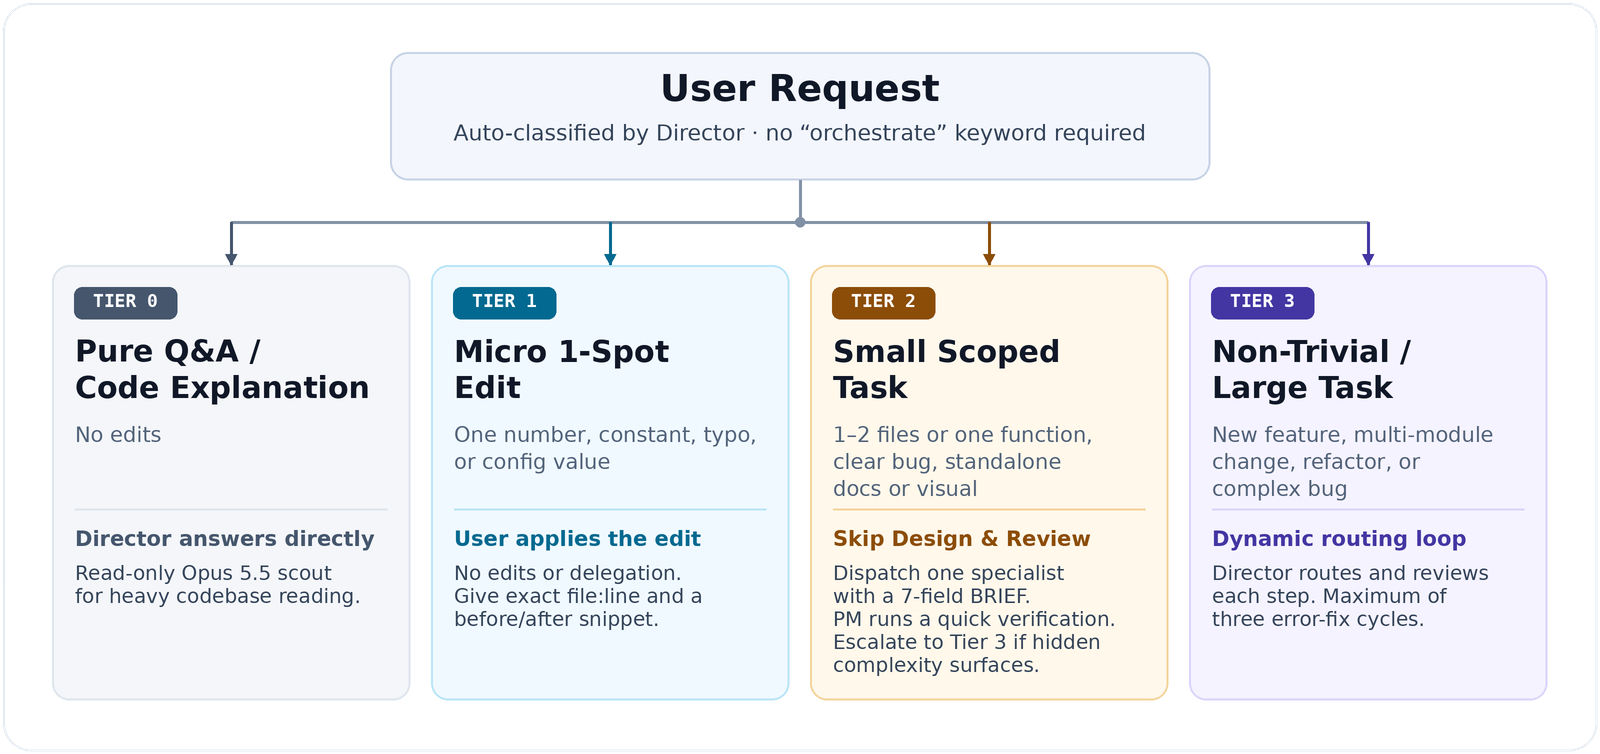
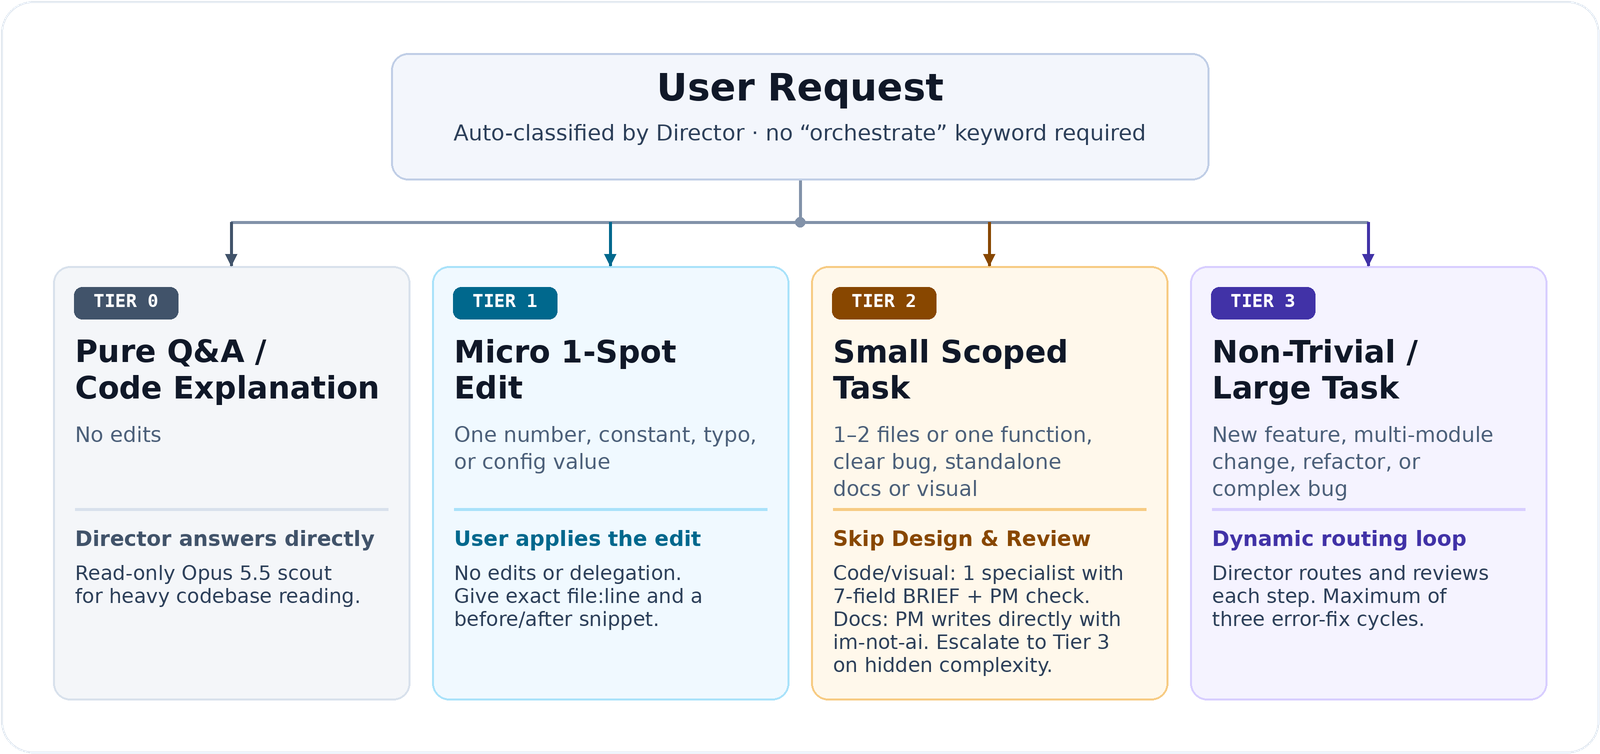
feat: consolidate docs into Director PM with im-not-ai skill and add install prerequisites

diff --git a/skills/my-orchestration/SKILL.md b/skills/my-orchestration/SKILL.md
@@ -5,21 +5,21 @@ description: >-
   engineering task (even without mentioning orchestration) and explicit orchestration
   requests. Enforces 4-tier auto-routing, dynamic Director-driven control, 7-field BRIEF
   handoffs (command-based DONE WHEN), failing-test-first fixes, sensitive-file locks,
-  max 3 fix cycles, optional worktree isolation, and the Dream Team roster (Gemini 4
-  Neon high PM, Claude Opus 5.5 high design/code, Gemini 4 Hydrogen medium docs,
-  image-generator/GPT 6.2 Sol medium visuals, GPT 6.2 Astra xhigh adversarial review).
+  max 3 fix cycles, optional worktree isolation, direct PM docs with the im-not-ai
+  (humanize-korean) skill, and the Dream Team roster (Gemini 4 Neon high PM & docs,
+  Claude Opus 5.5 high design/code, image-generator/GPT 6.2 Sol medium visuals,
+  GPT 6.2 Astra xhigh adversarial review).
 ---
 
 # My T3 Code Orchestration Preset (Dynamic Director-Driven)
 
-Hub-and-spoke control (Option A): main thread (`Gemini 4 Neon`, `thought_level: high`) acts as active **Director/PM** controlling all `delegate_task` calls. Children NEVER spawn subagents. Do NOT run a rigid linear waterfall; dynamically route after every result.
+Hub-and-spoke control (Option A): main thread (`Gemini 4 Neon`, `thought_level: high`) acts as active **Director/PM & Docs Writer** controlling all `delegate_task` calls and writing documentation directly. Children NEVER spawn subagents. Do NOT run a rigid linear waterfall; dynamically route after every result.
 
 ## 1. Roster (Exact IDs & Options)
 
-- **Director/PM** (main, direct): `Gemini 4 Neon` (`{"thought_level":"high"}`) — Korean Q&A, routing, 7-field briefs, verification, fix-cycle cap, reporting.
+- **Director/PM & Docs** (main, direct): `Gemini 4 Neon` (`{"thought_level":"high"}`) — Korean Q&A, routing, 7-field briefs, verification, fix-cycle cap, reporting, and direct documentation/copywriting (`docs/`, `README.md`, `CHANGELOG.md`, UI/i18n) polished with the `im-not-ai` (`humanize-korean`) skill.
 - **Architect/Scout** (read-only): `claudeAgent` / `claude-opus-5-5` / `{"effort":"high"}` — codebase scouting, blueprints, design pivots.
 - **Builder/Code Worker**: `claudeAgent` / `claude-opus-5-5` / `{"effort":"high"}` — Tier 2 edits, Tier 3 parallel/worktree slices, failing-test-first fixes.
-- **Docs/Copywriter**: `antigravity` / `gemini-4-hydrogen` / `{"thought_level":"medium"}` — Korean docs (`docs/`, `README.md`, `CHANGELOG.md`, designated UI/i18n ONLY).
 - **Visual/Asset**: native `invoke_subagent` (`image-generator`) for raster art/icons/banners; `codex` / `gpt-6.2-sol` / `{"reasoningEffort":"medium"}` for code-generated charts/diagrams/SVG/GIF scripts.
 - **Playtester/Senior Reviewer** (read-only): `codex` / `gpt-6.2-astra` / `{"reasoningEffort":"xhigh"}` — adversarial cross-provider playtesting, bug & test-quality review.
 
@@ -27,7 +27,10 @@ Hub-and-spoke control (Option A): main thread (`Gemini 4 Neon`, `thought_level: 
 
 - **Tier 0 (Pure Q&A / explanation, no edits)**: Answer directly. Offload heavy codebase reading to a read-only `claude-opus-5-5` scout.
 - **Tier 1 (Micro 1-spot edit: single number/constant/typo/config value)**: Do NOT edit or delegate (unless user explicitly asks you to apply it). Give exact clickable file:line + before/after snippet for user self-edit.
-- **Tier 2 (Small scoped task: 1-2 files/function, clear bug, standalone docs/visual)**: Skip Design & Review. Dispatch 1 matching worker with a 7-field `BRIEF` + run quick PM verification. Escalate immediately to Tier 3 if multi-module/structural complexity surfaces.
+- **Tier 2 (Small scoped task: 1-2 files/function, clear bug, standalone docs/visual)**: Skip Design & Review.
+  - Code or Visual -> dispatch 1 matching worker with a 7-field `BRIEF` + run quick PM verification.
+  - Standalone Docs/Copy -> PM (`Gemini 4 Neon`) writes directly and applies the `im-not-ai` (`humanize-korean`) skill for Korean prose.
+  - Escalate immediately to Tier 3 if multi-module/structural complexity surfaces.
 - **Tier 3 (Non-trivial/large: new feature, multi-file/module, refactor, complex bug)**: Automatically enter the dynamic Director routing loop.
 
 ## 3. Dynamic Routing Rules (Evaluate After Every Step)
@@ -37,7 +40,7 @@ Hub-and-spoke control (Option A): main thread (`Gemini 4 Neon`, `thought_level: 
 3. **Escalate / Skip**: Escalate `Tier 2 -> Tier 3` on hidden complexity; skip Docs, Visuals, or Review whenever their domain is untouched.
 4. **Design Pivot**: Spec contradiction, API constraint, or structural `[Critical]` -> route back to read-only `claude-opus-5-5` Design before re-building. Never blind-patch.
 5. **Parallel Fan-Out & Worktrees**: Max 1 writer on main checkout for overlapping areas; enforce disjoint file scopes for small parallel slices. For large independent parallel features (e.g., API + UI), use `isolation: "worktree"` and integrate in dependency order. Keep <= 2-3 concurrent builders to prevent MCP/RAM bloat.
-6. **Post-Code Sync**: After code passes verification/review, dispatch `gemini-4-hydrogen` and/or visual workers if public APIs, CLI flags, configs, or UI flows changed.
+6. **Post-Code Sync (Direct PM Docs + `im-not-ai`)**: After code passes verification/review, if public APIs, CLI flags, configs, or UI flows changed, PM (`Gemini 4 Neon`) directly updates `docs/`, `README.md`, `CHANGELOG.md`, or UI copy — applying the `im-not-ai` (`humanize-korean`) skill to Korean deliverables (short natural sentences, no AI-isms/jargon/hype; changelog <= 3 lines: what changed + user impact) — and dispatches visual workers only if visual assets changed.
 7. **Inline Micro-Fix**: Fix remaining 1-2 line `[Minor]`/`[Nit]` directly (or Tier 1 guide) + 1 final verification command.
 
 ## 4. Mandatory 7-Field Handoff `BRIEF`
@@ -48,7 +51,6 @@ Children see ZERO parent history. Send every `delegate_task` in concise English 
 - **Architect/Scout**: Return file/function boundaries, risks, and executable verification commands.
 - **Builder**: Execute `DONE WHEN` command(s); report changed files, command outputs, and uncertainties.
 - **Playtester/Reviewer (`gpt-6.2-astra`)**: Read-only is a promise, not a lock — explicitly state `DO NOT edit/fix; report only`. Use adversarial red-team posture auditing **code AND test quality** (tests must genuinely catch regressions). Checklist: empty/null, huge/boundary, concurrency/race (two tabs/requests), slow/failing network/I/O, Unicode/Korean/non-ASCII, expired auth/missing perms, silent regressions, blueprint drift. Return numbered `[Critical|Major|Minor|Nit]` with `file:line`, `repro`, `expected`, `actual`, and fix criteria.
-- **Docs (`gemini-4-hydrogen`)**: Hard fence (`docs/`, `README.md`, `CHANGELOG.md`, designated UI/i18n ONLY). Write concise natural Korean (short sentences, no jargon/hype; changelog <= 3 lines: what changed + user impact); return English summary.
 
 ## 5. Safety Guardrails & Circuit Breakers
 
@@ -64,7 +66,7 @@ Children see ZERO parent history. Send every `delegate_task` in concise English 
 
 ## 6. Operations, Language & Overrides
 
-- **Language**: Internal prompts/blueprints/reports/reviews = strictly English; user replies & user-facing docs = natural Korean.
+- **Language & Docs Polish**: Internal prompts/blueprints/reports/reviews = strictly English; user replies & Korean user-facing docs = natural Korean. For Korean documentation/copy, load and follow the installed `im-not-ai` skill (`humanize-korean`; or `humanize-scan` for quick checks) before finalizing.
 - **Mechanics**: Call `orchestrator_capabilities` once per thread before first `delegate_task`; never silently swap unavailable models. Keep main context lean (offload heavy reads to read-only `claude-opus-5-5`). Never poll delegates (`task_status`, `sleep`, loops — follow `next`).
 - **Final Report**: Concise Korean + clickable file links + verbatim delegated thread links; suggest `/compact` or fresh thread after major milestones if long.
 - **Overrides**: Honor explicit per-thread user overrides (tier, path, cap, model, options) without editing this file unless asked.

diff --git a/README.md b/README.md
@@ -2,7 +2,7 @@
 
 A compact, production-tested **dynamic multi-model orchestration skill** for **T3 Code** and **Antigravity**.
 
-Instead of a rigid `Plan -> Build -> Review` waterfall, a lightweight central **Director/PM** classifies every incoming request across 4 tiers, dynamically routes work to specialized frontier models across providers, enforces command-verified handoffs and cross-family adversarial reviews, and halts cleanly at a hard **3-cycle circuit breaker**.
+Instead of a rigid `Plan -> Build -> Review` waterfall, a lightweight central **Director/PM** classifies every incoming request across 4 tiers, dynamically routes engineering & visual work to specialized frontier models across providers, handles user-facing documentation directly with the `im-not-ai` (`humanize-korean`) skill, enforces command-verified handoffs and cross-family adversarial reviews, and halts cleanly at a hard **3-cycle circuit breaker**.
 
 ---
 
@@ -22,10 +22,9 @@ Instead of a rigid `Plan -> Build -> Review` waterfall, a lightweight central **
 
 | Role | Provider | Model | Options | Scope |
 | :--- | :--- | :--- | :--- | :--- |
-| **Director / PM** | Main thread (`antigravity`) | `Gemini 4 Neon` | `{"thought_level": "high"}` | Routing, 7-field briefs, verification, fix-cycle cap, user reporting |
+| **Director / PM & Docs** | Main thread (`antigravity`) | `Gemini 4 Neon` | `{"thought_level": "high"}` | Routing, 7-field briefs, verification, fix-cycle cap, reporting, and direct docs/copywriting (`docs/`, `README.md`, `CHANGELOG.md`, UI/i18n) polished with `im-not-ai` (`humanize-korean`) |
 | **Architect / Scout** | `claudeAgent` | `claude-opus-5-5` | `{"effort": "high"}` | Read-only scouting, architecture blueprints, mid-flight design pivots |
 | **Code Worker / Builder** | `claudeAgent` | `claude-opus-5-5` | `{"effort": "high"}` | Tier 2 edits, Tier 3 parallel/worktree slices, failing-test-first fixes |
-| **Docs / Copywriter** | `antigravity` | `gemini-4-hydrogen` | `{"thought_level": "medium"}` | `docs/`, `README.md`, `CHANGELOG.md`, UI copy/i18n only |
 | **Visual / Asset Designer** | Native / `codex` | `image-generator` / `gpt-6.2-sol` | `--` / `{"reasoningEffort": "medium"}` | Raster art/icons/banners (`image-generator`); charts/SVG/GIF scripts (`gpt-6.2-sol`) |
 | **Playtester / Senior Reviewer** | `codex` | `gpt-6.2-astra` | `{"reasoningEffort": "xhigh"}` | Read-only adversarial cross-provider playtesting & test-quality audit |
 
@@ -36,6 +35,7 @@ Instead of a rigid `Plan -> Build -> Review` waterfall, a lightweight central **
 ## Key Engineering Disciplines
 
 - **Mandatory 7-Field Handoff `BRIEF`**: Every child delegate starts with zero parent history. All briefs specify `BRIEF FOR`, `ROLE`, `GOAL`, `CONTEXT`, `DONE WHEN` (an executable exit-0 command or objective checklist — never an opinion), `DO NOT`, and `RETURN`. See [`templates/BRIEF.md`](./templates/BRIEF.md).
+- **Direct PM Docs + [`im-not-ai`](https://github.com/epoko77-ai/im-not-ai) Polish**: Instead of spawning a separate copywriter model, the Director/PM (`Gemini 4 Neon`) writes user-facing documentation (`docs/`, `README.md`, `CHANGELOG.md`, UI/i18n) directly and runs Korean deliverables through the required [`im-not-ai`](https://github.com/epoko77-ai/im-not-ai) (`humanize-korean` / `humanize-scan`) skill to eliminate AI-isms and translationese.
 - **Failing Test First**: When fixing testable bugs or `[Critical]`/`[Major]` review findings, builders write a failing regression test reproducing the issue *before* writing the fix.
 - **Adversarial Playtester Checklist**: `GPT 6.2 Astra` audits both **code and test quality** against empty/null inputs, huge boundaries, concurrency/race conditions, slow/failing I/O, Unicode/non-ASCII strings, auth/permission edge cases, and blueprint drift.
 - **Hard Circuit Breakers**:
@@ -43,7 +43,43 @@ Instead of a rigid `Plan -> Build -> Review` waterfall, a lightweight central **
   - **Sensitive-File Lock**: `.env*`, DB `migrations`, and CI/deploy configs cannot be edited without explicit human approval.
   - **Autonomous Handoff Cap**: Max 4 unattended agent-to-agent handoffs without checking in with the user.
 - **Worktree & Resource Hygiene**: At most 1 writer on the main checkout for overlapping paths; use `isolation: "worktree"` for large independent parallel features and keep concurrent builders lean (<= 2–3) to avoid MCP/RAM bloat.
-- **Language Separation**: All internal briefs, blueprints, reports, and reviews stay strictly in concise English for token efficiency and technical precision; user-facing replies and docs default to natural Korean (easily customizable in `SKILL.md`).
+- **Language Separation**: All internal briefs, blueprints, reports, and reviews stay strictly in concise English for token efficiency and technical precision; user-facing replies and Korean docs default to natural, humanized Korean (easily customizable in `SKILL.md`).
+
+---
+
+## Prerequisites
+
+### Required Companion Skill: `im-not-ai` (`humanize-korean`)
+
+This preset relies on **[epoko77-ai/im-not-ai](https://github.com/epoko77-ai/im-not-ai)** so the Director/PM (`Gemini 4 Neon`) can polish Korean documentation (`docs/`, `README.md`, `CHANGELOG.md`, UI copy) and eliminate AI-isms and translationese. **Install `im-not-ai` before using Korean docs workflows:**
+
+#### 1. Clone & Install for Antigravity / T3 Code (Recommended)
+
+```bash
+git clone https://github.com/epoko77-ai/im-not-ai.git ~/.local/share/im-not-ai
+cd ~/.local/share/im-not-ai
+./install.sh   # Auto-detects Claude Code, Codex CLI, and Gemini CLI
+
+# Link skills into Antigravity's global skills directory
+mkdir -p ~/.gemini/config/skills
+for s in humanize humanize-korean humanize-redo humanize-scan; do
+  ln -sfn ~/.local/share/im-not-ai/skills/"$s" ~/.gemini/config/skills/"$s"
+done
+```
+
+#### 2. Alternative Install Methods
+
+- **Gemini CLI Extension (no clone)**:
+  ```bash
+  gemini extensions install https://github.com/epoko77-ai/im-not-ai.git
+  ```
+- **Claude Code Plugin Marketplace (no clone)**:
+  ```text
+  /plugin marketplace add epoko77-ai/im-not-ai
+  /plugin install humanize-korean@im-not-ai
+  ```
+
+For full details, updates, and uninstall options, see the upstream [`im-not-ai` repository](https://github.com/epoko77-ai/im-not-ai).
 
 ---
 
@@ -86,7 +122,7 @@ Oh-My-Orchestration/
 │   └── dynamic-routing.png
 ├── skills/
 │   └── my-orchestration/
-│       └── SKILL.md                    # Compact 70-line auto-activating skill definition
+│       └── SKILL.md                    # Compact 72-line auto-activating skill definition
 └── templates/
     └── BRIEF.md                        # Reusable 7-field handoff brief templates by role
 ```
@@ -96,7 +132,7 @@ Oh-My-Orchestration/
 ## Customization
 
 - **Swap models/providers**: Edit Section 1 (`Roster`) in [`skills/my-orchestration/SKILL.md`](./skills/my-orchestration/SKILL.md) (for example, switching Architect to `claude-fable-5-2` when available).
-- **Change user-facing language**: Edit Section 6 (`Language`) in `SKILL.md` if you prefer English or another language for user replies and documentation.
+- **Change user-facing language**: Edit Section 6 (`Operations, Language & Overrides`) in `SKILL.md` if you prefer English or another language for user replies and documentation.
 - **Per-thread overrides**: Simply tell the Director in chat (e.g., *"use Tier 3 for this"* or *"use `xhigh` for the builder"*); per-thread overrides work without modifying `SKILL.md`.
 
 ## License

diff --git a/templates/BRIEF.md b/templates/BRIEF.md
@@ -2,6 +2,8 @@
 
 Child delegates in T3 Code start with **zero parent conversation history**. Use these English templates verbatim when invoking `delegate_task`.
 
+> **Note on Documentation**: User-facing docs (`docs/`, `README.md`, `CHANGELOG.md`, UI/i18n) are written directly by the Director/PM (`Gemini 4 Neon · high`) using the installed `im-not-ai` (`humanize-korean`) skill for Korean prose — no separate docs delegate is needed.
+
 ---
 
 ## 1. Architect / Scout (`claudeAgent` / `claude-opus-5-5`, `effort: high`, read-only)
@@ -46,20 +48,4 @@ DONE WHEN: Checked empty/null input, huge/boundary input, concurrency/race condi
 DO NOT:    Edit or fix any files (report only), or spawn subagents.
 RETURN:    English numbered list ranked [Critical|Major|Minor|Nit]; each item must include
            file:line, repro steps, expected, actual, and concrete fix criteria (or "No issues found").
-```
-
----
-
-## 4. Docs / Copywriter (`antigravity` / `gemini-4-hydrogen`, `thought_level: medium`)
-
-```text
-BRIEF FOR: antigravity / gemini-4-hydrogen (thought_level: medium)
-ROLE:      copywriter
-GOAL:      Update user-facing documentation and UI copy for <feature/change>.
-CONTEXT:   <final diff summary, user-visible API/CLI/UI changes>
-DONE WHEN: Every new user-facing feature/string has clear Korean copy; CHANGELOG entry is <= 3 lines
-           explaining what changed and why it matters to the user.
-DO NOT:    Touch anything outside docs/, README.md, CHANGELOG.md, and designated UI/i18n files;
-           do not use jargon or hype; do not spawn subagents.
-RETURN:    English summary of edited files and the final changelog entry.
 ```
